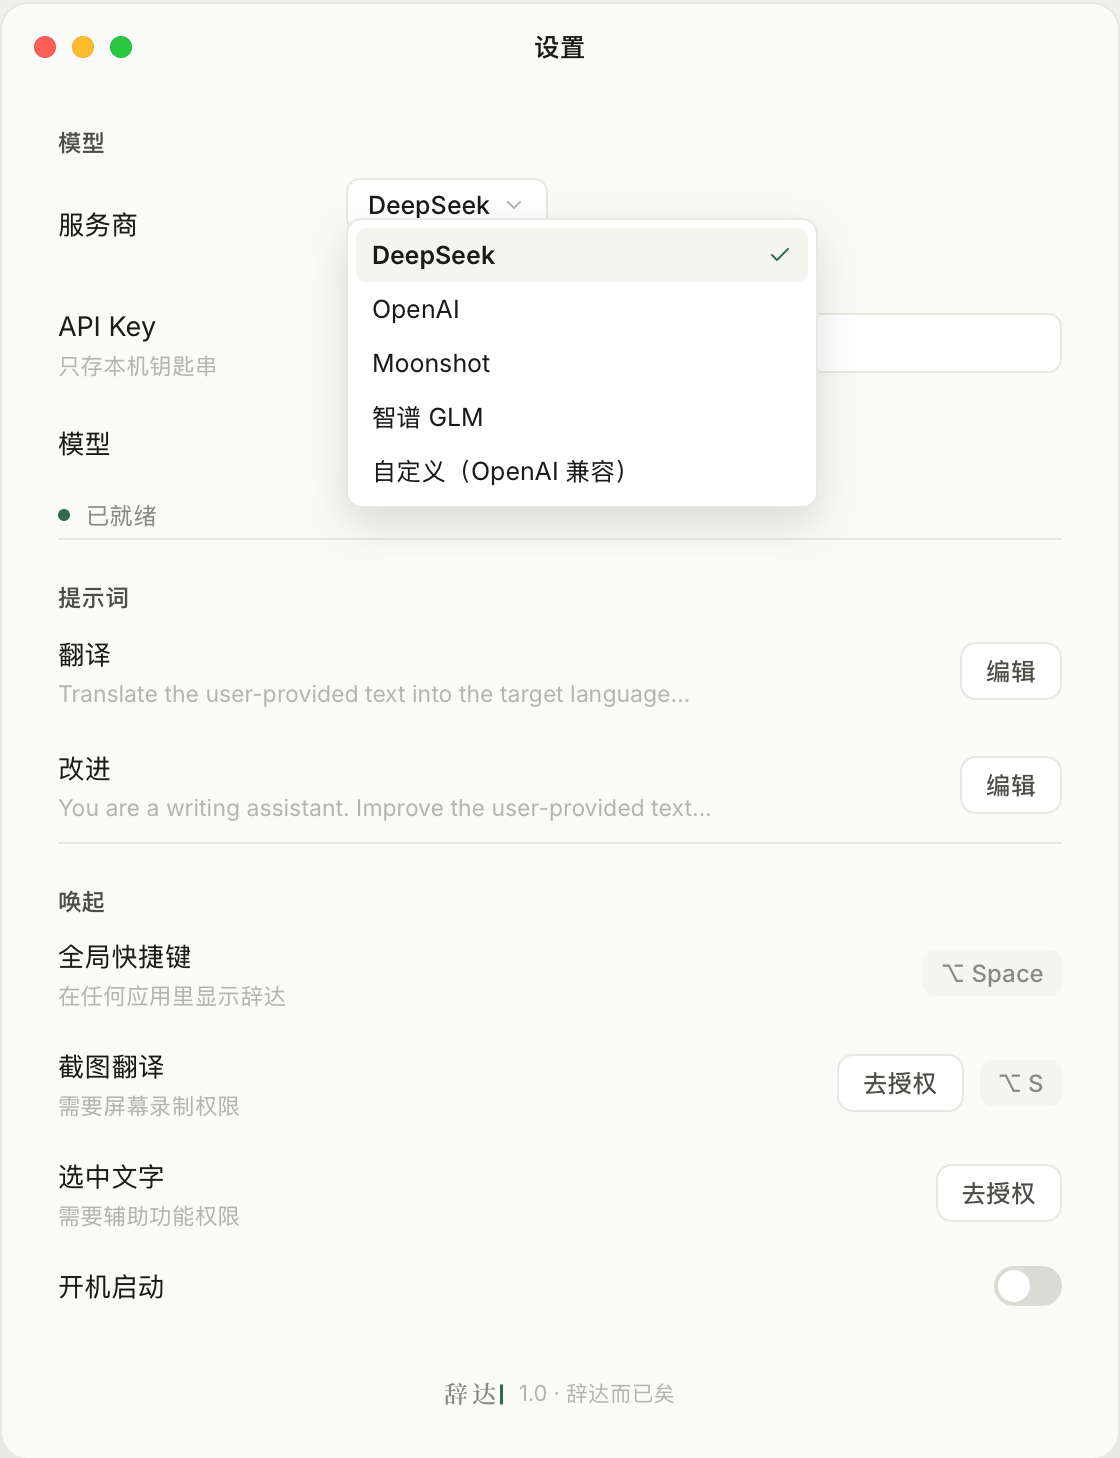
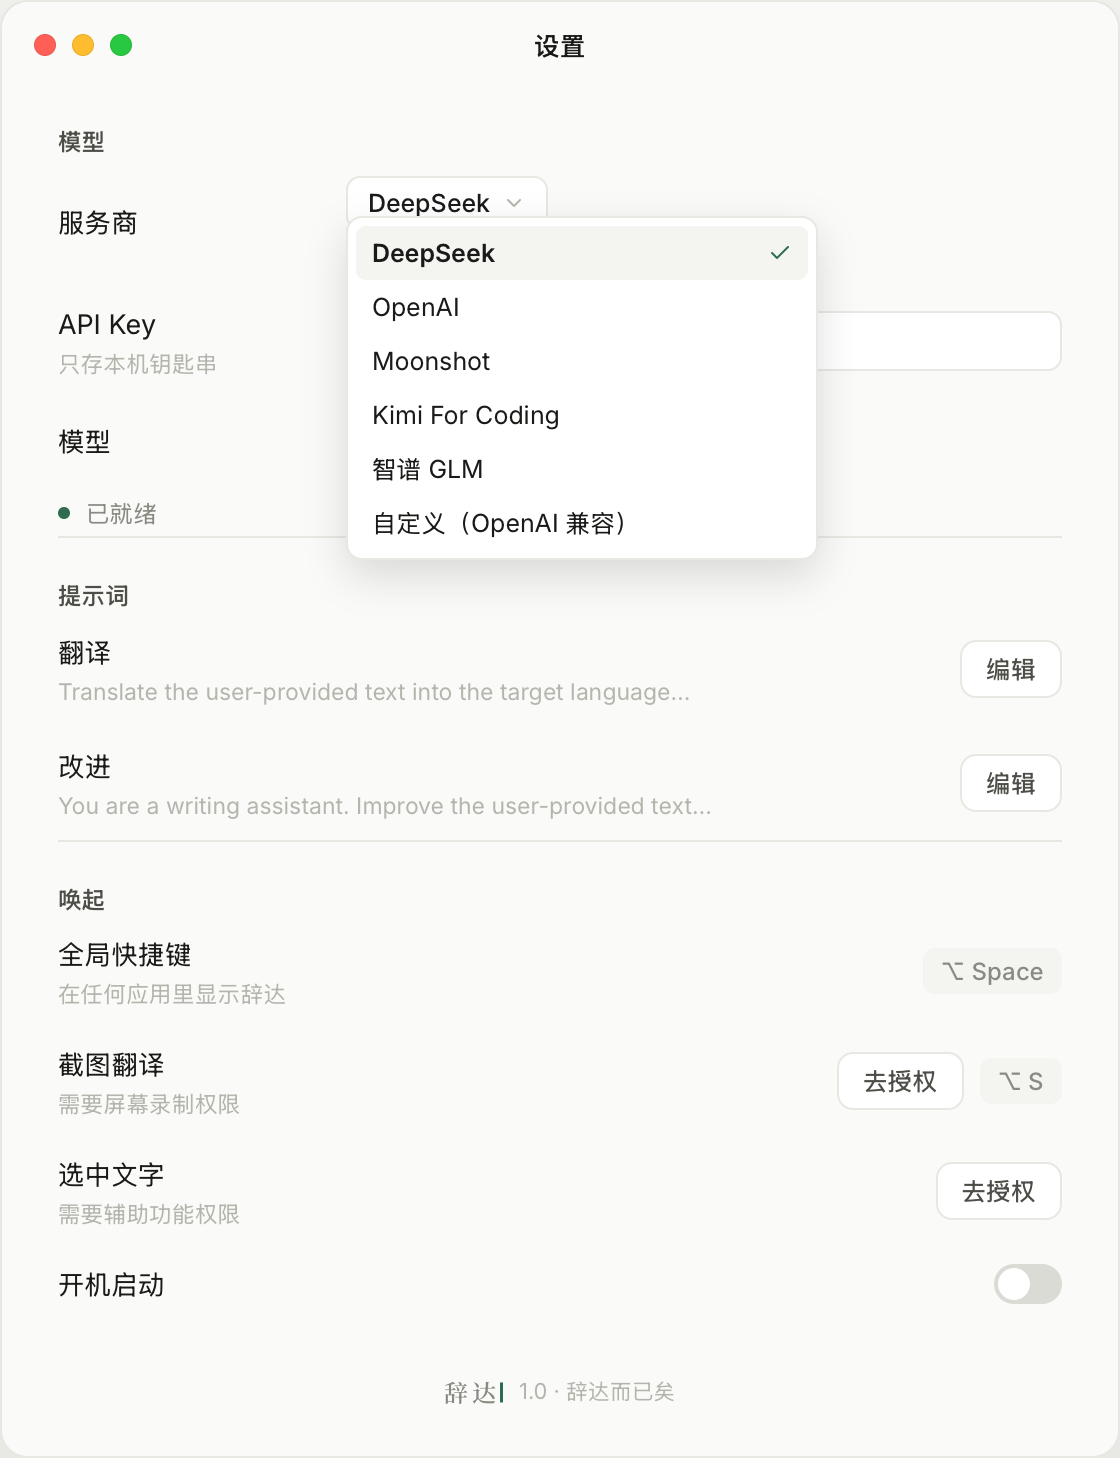
feat: add the Kimi For Coding provider preset
The Kimi Code subscription plan serves an OpenAI-compatible Chat Completions endpoint at api.kimi.com/coding/v1 with its own model IDs (kimi-for-coding, k3), separate from the pay-per-call Moonshot API. Users on the plan had to configure it through the custom provider by hand; a preset gives them the endpoint and suggested models in one menu pick. The spec's provider list, the settings board, the UITest driver labels and the READMEs move with the new preset.

diff --git a/Sources/Cida/Models.swift b/Sources/Cida/Models.swift
@@ -43,6 +43,7 @@ enum ModelProvider: String, CaseIterable, Codable, Sendable {
   case deepSeek = "DeepSeek"
   case openAI = "OpenAI"
   case moonshot = "Moonshot"
+  case kimiCodePlan = "KimiCodePlan"
   case zhipu = "Zhipu"
   case custom = "Custom"
 
@@ -51,6 +52,7 @@ enum ModelProvider: String, CaseIterable, Codable, Sendable {
     case .deepSeek: "DeepSeek"
     case .openAI: "OpenAI"
     case .moonshot: "Moonshot"
+    case .kimiCodePlan: "Kimi For Coding"
     case .zhipu: "智谱 GLM"
     case .custom: "自定义（OpenAI 兼容）"
     }
@@ -63,6 +65,7 @@ enum ModelProvider: String, CaseIterable, Codable, Sendable {
     case .deepSeek: URL(string: "https://api.deepseek.com/chat/completions")
     case .openAI: URL(string: "https://api.openai.com/v1/chat/completions")
     case .moonshot: URL(string: "https://api.moonshot.cn/v1/chat/completions")
+    case .kimiCodePlan: URL(string: "https://api.kimi.com/coding/v1/chat/completions")
     case .zhipu: URL(string: "https://open.bigmodel.cn/api/paas/v4/chat/completions")
     case .custom: nil
     }
@@ -78,6 +81,7 @@ enum ModelProvider: String, CaseIterable, Codable, Sendable {
     case .deepSeek: ["deepseek-chat", "deepseek-reasoner"]
     case .openAI: ["gpt-5", "gpt-5-mini"]
     case .moonshot: ["kimi-k3", "kimi-k2.6"]
+    case .kimiCodePlan: ["kimi-for-coding", "k3"]
     case .zhipu: ["glm-5.3", "glm-5.3-flash"]
     case .custom: []
     }

diff --git a/Design/boards/components.js b/Design/boards/components.js
@@ -107,7 +107,7 @@ class CidaSettings extends HTMLElement {
     const popover = is("menu", "open")
       ? `<div class="popover" style="left: 172px; top: 107px">
            <span class="current">DeepSeek<i class="icon icon-check"></i></span>
-           <span>OpenAI</span><span>Moonshot</span><span>智谱 GLM</span><span>自定义（OpenAI 兼容）</span>
+           <span>OpenAI</span><span>Moonshot</span><span>Kimi For Coding</span><span>智谱 GLM</span><span>自定义（OpenAI 兼容）</span>
          </div>`
       : "";
 

diff --git a/UITests/CidaUITests/Support/CidaAppDriver.swift b/UITests/CidaUITests/Support/CidaAppDriver.swift
@@ -69,7 +69,7 @@ final class CidaAppDriver {
   }
 
   /// `ModelProvider.displayName` of every preset plus the custom entry.
-  static let providerLabels = ["DeepSeek", "OpenAI", "Moonshot", "智谱 GLM", "自定义（OpenAI 兼容）"]
+  static let providerLabels = ["DeepSeek", "OpenAI", "Moonshot", "Kimi For Coding", "智谱 GLM", "自定义（OpenAI 兼容）"]
   static let customProviderLabel = "自定义（OpenAI 兼容）"
 
   var readinessRow: XCUIElement { element(identifier: "settings-readiness") }

diff --git a/Design/spec/settings.md b/Design/spec/settings.md
@@ -10,7 +10,7 @@
 
 ## 二、模型
 
-- 服务商是菜单，每一项是预设：预设 = 端点 + 建议模型 + 是否需要 Key；列表末尾固定「自定义（OpenAI 兼容）」。当前预设：DeepSeek、OpenAI、Moonshot、智谱 GLM。加服务商只加一行预设，界面不变。
+- 服务商是菜单，每一项是预设：预设 = 端点 + 建议模型 + 是否需要 Key；列表末尾固定「自定义（OpenAI 兼容）」。当前预设：DeepSeek、OpenAI、Moonshot、Kimi For Coding、智谱 GLM。加服务商只加一行预设，界面不变。
 - 选预设时菜单下方一行说明写实际请求的域名（如 `api.deepseek.com · Chat Completions`），不显示端点输入；选自定义时出现「端点」行（`font-mono`，铺满，聚焦 1.5px accent 描边）。
 - 模型：预设 → 建议模型菜单，最后一项「其他…」把这一行换成输入框；自定义 → 输入框。切换服务商时模型回到该预设第一项。
 - API Key：遮罩输入框铺满（`font-mono`），说明「只存本机钥匙串」；自定义且端点为 localhost / 127.0.0.1 / ::1 时占位「本地端点可留空」。

diff --git a/docs/design-qa.md b/docs/design-qa.md
@@ -90,7 +90,7 @@ inside a disposable headless Tart macOS session. Neither path activates the test
   completion, and the slot crossfading between 停止 and 复制结果 over 150 ms.
 - Settings follows `Spec — 设置`: a fixed-width (560 pt) titled window whose height follows its
   content (no scrolling), with three groups in the order of the user's questions. The provider is
-  a menu of presets (DeepSeek, OpenAI, Moonshot, 智谱 GLM) plus 自定义（OpenAI 兼容）; presets show
+  a menu of presets (DeepSeek, OpenAI, Moonshot, Kimi For Coding, 智谱 GLM) plus 自定义（OpenAI 兼容）; presets show
   the host they call under the menu, and only 自定义 shows the endpoint field. Fields fill the
   control column; the model group ends in a locally derived readiness line (已就绪 / 还差 API Key /
   本地端点 · 无需 API Key / 端点无效); prompts collapse to a one-line preview with `编辑` and expand

diff --git a/README.en.md b/README.en.md
@@ -31,7 +31,7 @@ You need macOS 15 or newer and an API key for a language model service.
 2. Unzip it, move **Cida.app** to Applications and open it. Cida lives in the menu bar, not the Dock.
 3. Press <kbd>⌘</kbd> <kbd>,</kbd>, choose a provider and paste your API key.
 
-DeepSeek, OpenAI, Moonshot and 智谱 GLM are built in, and any endpoint compatible with OpenAI Chat Completions works too; a model running on your Mac (such as `http://127.0.0.1:8080`) needs no key. Cida is free; your provider charges for the requests.
+DeepSeek, OpenAI, Moonshot, Kimi For Coding (the Kimi Code subscription) and 智谱 GLM are built in, and any endpoint compatible with OpenAI Chat Completions works too; a model running on your Mac (such as `http://127.0.0.1:8080`) needs no key. Cida is free; your provider charges for the requests.
 
 Two permissions are optional. Turn them on with 去授权 in the 唤起 section of Settings:
 

diff --git a/README.md b/README.md
@@ -29,7 +29,7 @@
 2. 解压，把 **Cida.app** 拖进「应用程序」后打开。辞达只在菜单栏显示图标，不占用 Dock。
 3. 按 <kbd>⌘</kbd> <kbd>,</kbd> 打开设置，选择服务商并填入 API Key。
 
-内置 DeepSeek、OpenAI、Moonshot、智谱 GLM，也可以填任何兼容 OpenAI Chat Completions 的接口；在本机运行的模型（例如 `http://127.0.0.1:8080`）不需要 Key。辞达本身免费，模型调用按服务商的价格计费。
+内置 DeepSeek、OpenAI、Moonshot、Kimi For Coding（Kimi Code 订阅套餐）、智谱 GLM，也可以填任何兼容 OpenAI Chat Completions 的接口；在本机运行的模型（例如 `http://127.0.0.1:8080`）不需要 Key。辞达本身免费，模型调用按服务商的价格计费。
 
 两个权限都是可选的，在设置的「唤起」一栏点「去授权」即可开启：
 

diff --git a/docs/functional-qa.md b/docs/functional-qa.md
@@ -31,7 +31,7 @@ The current core experience contract (`Design/spec/panel.md`) includes:
    request explains itself inline and Return retries.
 7. Native Command-C precedence: a selection keeps the system copy; without one, Command-C copies
    the result.
-8. Provider presets (DeepSeek, OpenAI, Moonshot, 智谱 GLM) plus a custom OpenAI-compatible
+8. Provider presets (DeepSeek, OpenAI, Moonshot, Kimi For Coding, 智谱 GLM) plus a custom OpenAI-compatible
    endpoint with a typed model, a locally derived readiness line, Keychain API-key persistence and
    clearing, prompt edit/reset, source-language detection, and source-language-preserving
    improvement, all from a fixed-width Settings window whose height follows its content. Settings
